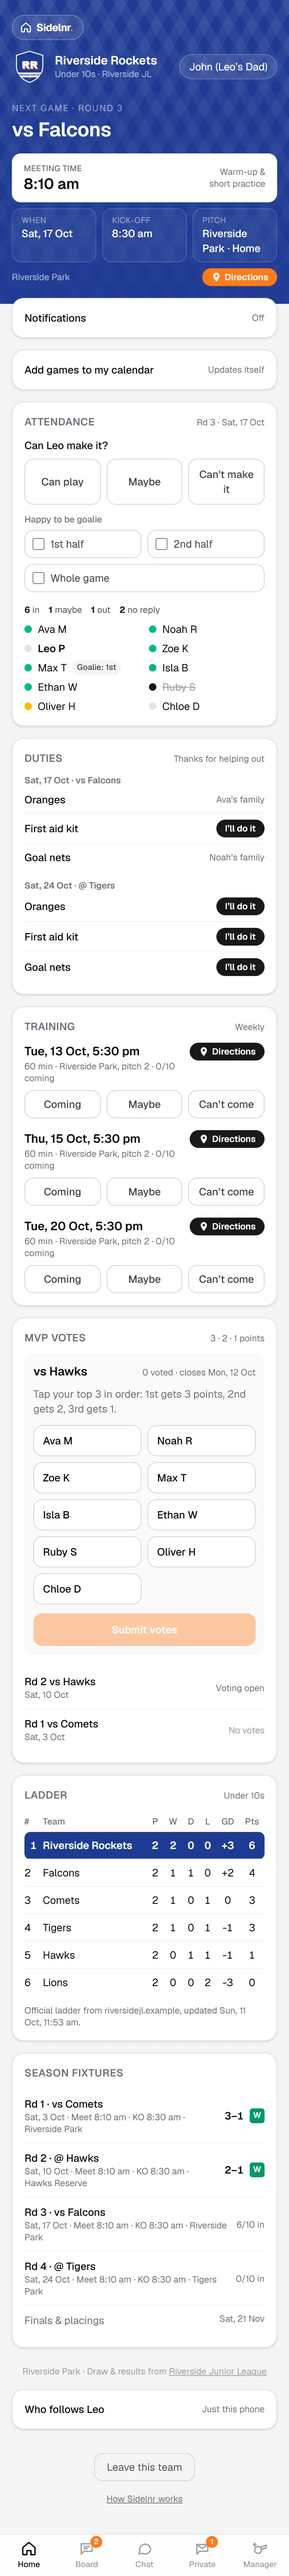
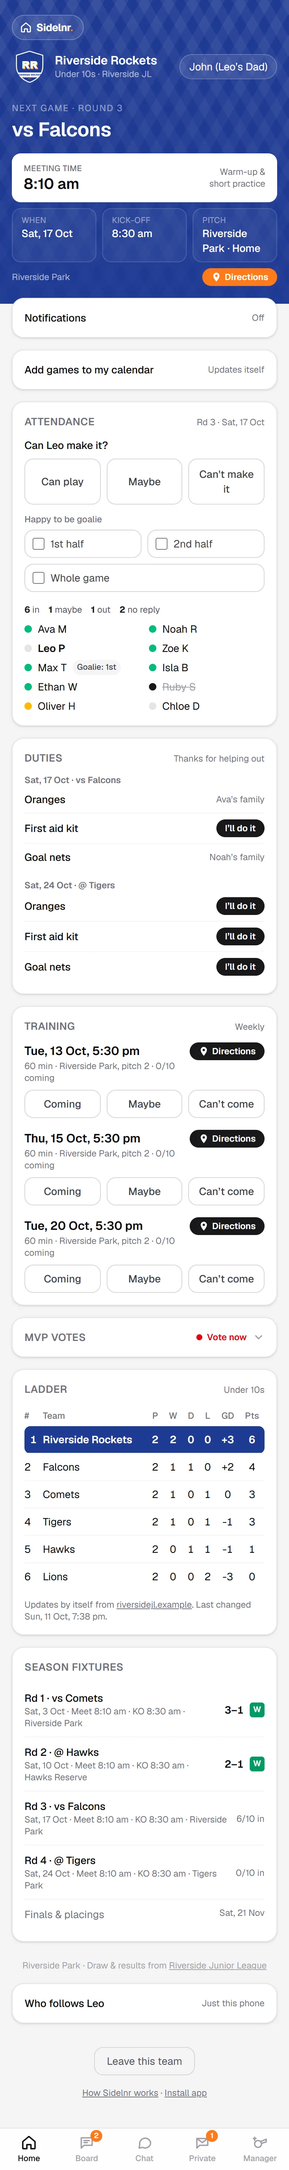
How Sidelnr works: pictures retaken and text updated (Share your family or one event, clash solver with your own name, green Got it, folded MVP votes, ladder from the league's site, roster link, who from your family)

diff --git a/src/components/Guide.tsx b/src/components/Guide.tsx
@@ -32,7 +32,7 @@ const PATHS: Path[] = [
       {
         image: "/guide/act-5-clash.webp",
         title: "Solve a clash",
-        text: "Two things at once? Tap Resolve clash. Choose Not going (the coach sees “Can’t make it”, or an activity skips that time), or pick who’s taking them: Mum, Dad, or the child on their own. Once it’s sorted, the clash turns green: resolved.",
+        text: "Two things at once? Tap Resolve clash. Choose Not going (the coach sees “Can’t make it”, or an activity skips that time), or pick who’s taking them: you, Mum, Dad, someone it’s shared with, or the child on their own. The rest of the family is told, and the clash turns green: resolved.",
       },
       {
         image: "/guide/act-3-add.webp",
@@ -41,8 +41,8 @@ const PATHS: Path[] = [
       },
       {
         image: "/guide/act-4-share.webp",
-        title: "Share with another phone",
-        text: "Tap Share at the top, then Get a code for all your activities or just some, and type it on the other phone under “Got a code?”. It works once, so nobody else can use it.",
+        title: "Share: your family, or one event",
+        text: "Tap Share. Join our family: their phone becomes part of your family and sees everything. Share one event: just that event, every time or one date, as a Shared event in their own My Activities; they can leave it any time. The code works once.",
       },
       {
         image: "/guide/act-1-week.webp",
@@ -69,12 +69,12 @@ const PATHS: Path[] = [
       {
         image: "/guide/join-3-team.webp",
         title: "Your team’s page",
-        text: "The next game with time, place and directions. Tap Can play, Maybe or Can’t make it, and see who else is coming. Further down: the ladder and the season’s fixtures. Tap the picture to see the whole page.",
+        text: "The next game with time, place and directions. Tap Can play, Maybe or Can’t make it, and see who else is coming. Further down: MVP votes (a red Vote now when it’s your turn), the ladder straight from the league’s website, and the season’s fixtures. Tap the picture to see the whole page.",
       },
       {
         image: "/guide/join-5-board.webp",
         title: "Board: news from the coach",
-        text: "Only the coach posts on the Board: times, places, what to bring. Tap Got it so the coach knows you’ve seen it.",
+        text: "Only the coach posts on the Board: times, places, what to bring. Tap the green Got it button so the coach knows you’ve seen it.",
       },
       {
         image: "/guide/join-4-chat.webp",
@@ -116,7 +116,7 @@ const PATHS: Path[] = [
       {
         image: "/guide/manage-4-squad.webp",
         title: "Your squad and codes",
-        text: "Add players one per line, or find them on the league’s website. A join code keeps the team private to your families. A manager PIN lets a co-coach help out.",
+        text: "Add players one per line, from your club’s roster link (saved with the team), or from a file. A join code keeps the team private to your families. A manager PIN lets a co-coach help out.",
       },
       {
         image: "/guide/manage-5-share.webp",
@@ -131,7 +131,7 @@ const PATHS: Path[] = [
       {
         image: "/guide/manage-7-corner.webp",
         title: "Manager’s Corner",
-        text: "Everything for running the team, folded into sections: game rotation, your team’s special role (if you set one up, like goalie), training, duties, the MVP tally, backup scores and team settings. Tap the picture to see it all.",
+        text: "Everything for running the team, folded into sections, each with a line on what it’s for: game rotation, your team’s special role (if you set one up, like goalie), training, duties, the MVP tally, backup scores and team settings (MVP votes can be turned off there). Tap the picture to see it all.",
       },
       {
         image: "/guide/manage-8-training.webp",
@@ -163,7 +163,7 @@ const PATHS: Path[] = [
       {
         image: "/guide/event-3-answer.webp",
         title: "Guests answer in one tap",
-        text: "Guests open the link, type their first name and tap Going, Maybe or Can’t come. No app to install, no account.",
+        text: "Guests open the link, type their first name and tap Going, Maybe or Can’t come, with who from their family is coming (for their calendar). No app to install, no account.",
       },
       {
         image: "/guide/event-4-page.webp",
@@ -382,7 +382,7 @@ export function Guide({ autoOpen = false, openNow = false }: { autoOpen?: boolea
               <h3 className="text-sm font-semibold uppercase tracking-wide text-zinc-500">How it fits together</h3>
               <ol className="mt-2 space-y-1.5 text-sm">
                 {[
-                  { n: 1, title: "League", text: "fixtures, results and the ladder. Added by the league, or by anyone with a link to its website." },
+                  { n: 1, title: "League", text: "fixtures, results and the ladder, read from its website or app when a coach sets up their team, or run by hand for social comps." },
                   { n: 2, title: "Team", text: "a coach picks their team in the league’s draw." },
                   { n: 3, title: "Families and players", text: "join their team with its code." },
                 ].map((l) => (
